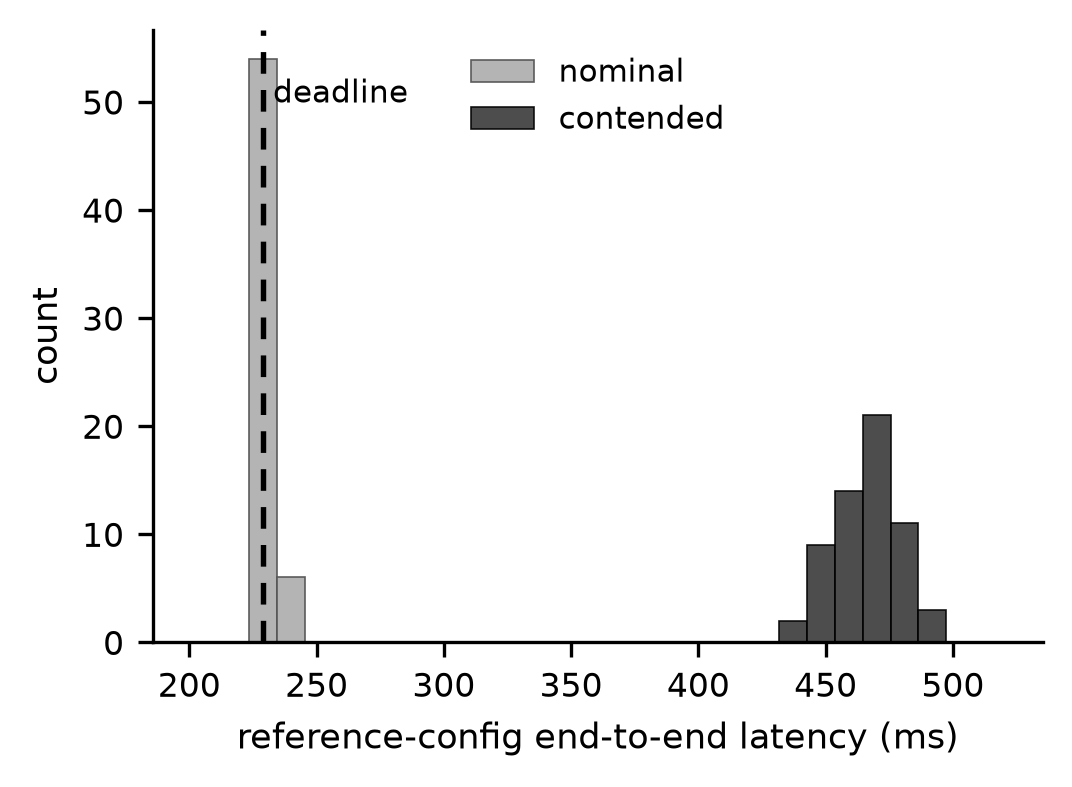
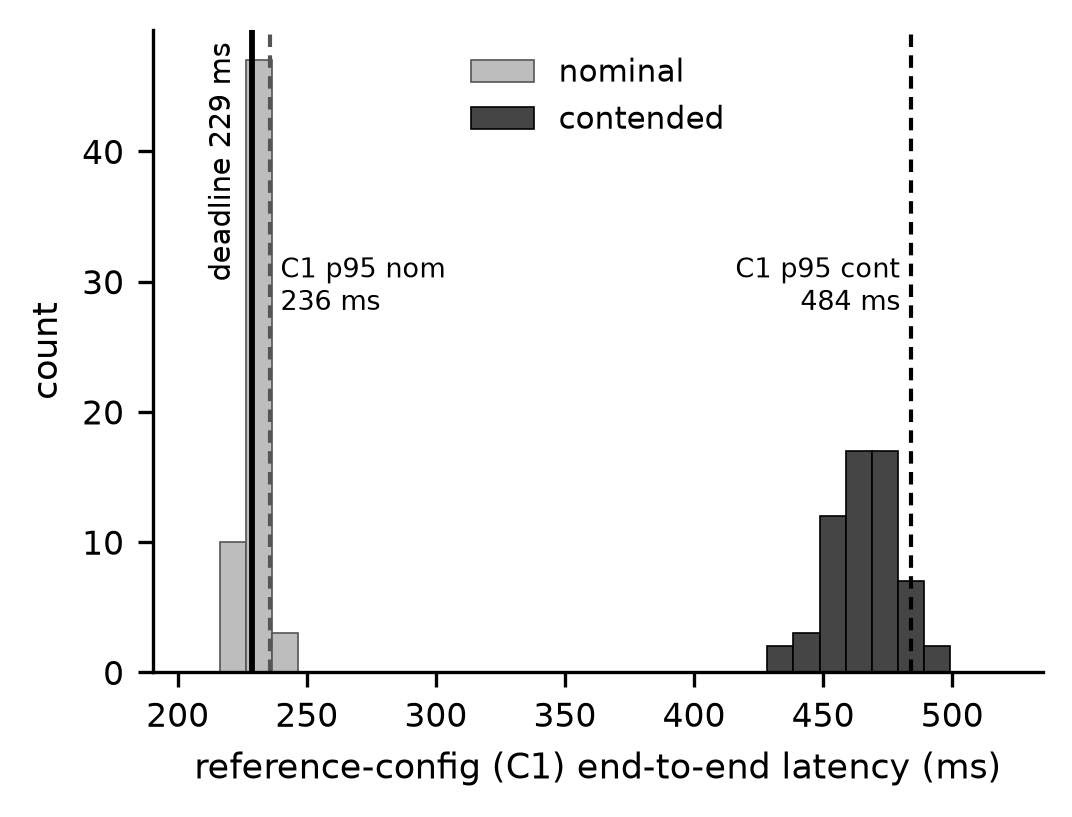
Fig 4: replace image with C1 nominal-vs-contended latency in ms (235.8/483.9, deadline 229) annotated to match Table II; soften 'physical degradation'->'fault-label process' and abstract 'severity'->'deadline-binding impact'

diff --git a/paper/main.tex b/paper/main.tex
@@ -55,7 +55,7 @@ misses by $1.1$ to $9.4$ percentage points across TartanDrive,
 RADIATE, and WoodScape, significant in five of six fault-bearing
 conditions. The gain is exactly zero in every matched uncoupled
 control and zero on a fault-free trajectory. The condition-level
-pattern is more consistent with deadline-binding degradation severity
+pattern is more consistent with deadline-binding impact
 than with fault frequency alone. Experiments ran on Apple~M5/MPS, so
 we report relative miss-rate changes, not absolute latencies. Code,
 configurations, processed outputs and data-acquisition instructions
@@ -115,7 +115,7 @@ relationship to compute contention is experimentally constructed.
   coupled regime, CI excludes zero. Square: CI includes zero. Grey
   crosses: matched uncoupled controls, all exactly $0.0$\,pp. The
   condition-level pattern is more consistent with deadline-binding
-  degradation severity than with fault frequency alone.}
+  deadline-binding impact than with fault frequency alone.}
   \label{fig:summary}
 \end{figure}
 
@@ -304,8 +304,8 @@ router never receives this schedule. It observes only noisy
 per-frame health signals, from which the sensor HMM must infer fault
 state, and recent latency statistics, from which the compute HMM
 infers contention. The schedule and the router's fault belief share
-an origin in the same physical degradation, which is the coupling we
-set out to study, but they are not the same signal and the
+an origin in the same underlying fault-label process, which is the
+coupling we set out to study, but they are not the same signal and the
 scheduling variable is never a router input. The uncoupled control
 replaces this rule with a periodic schedule independent of faults.
 The causal claim is correspondingly narrow: when contention is made